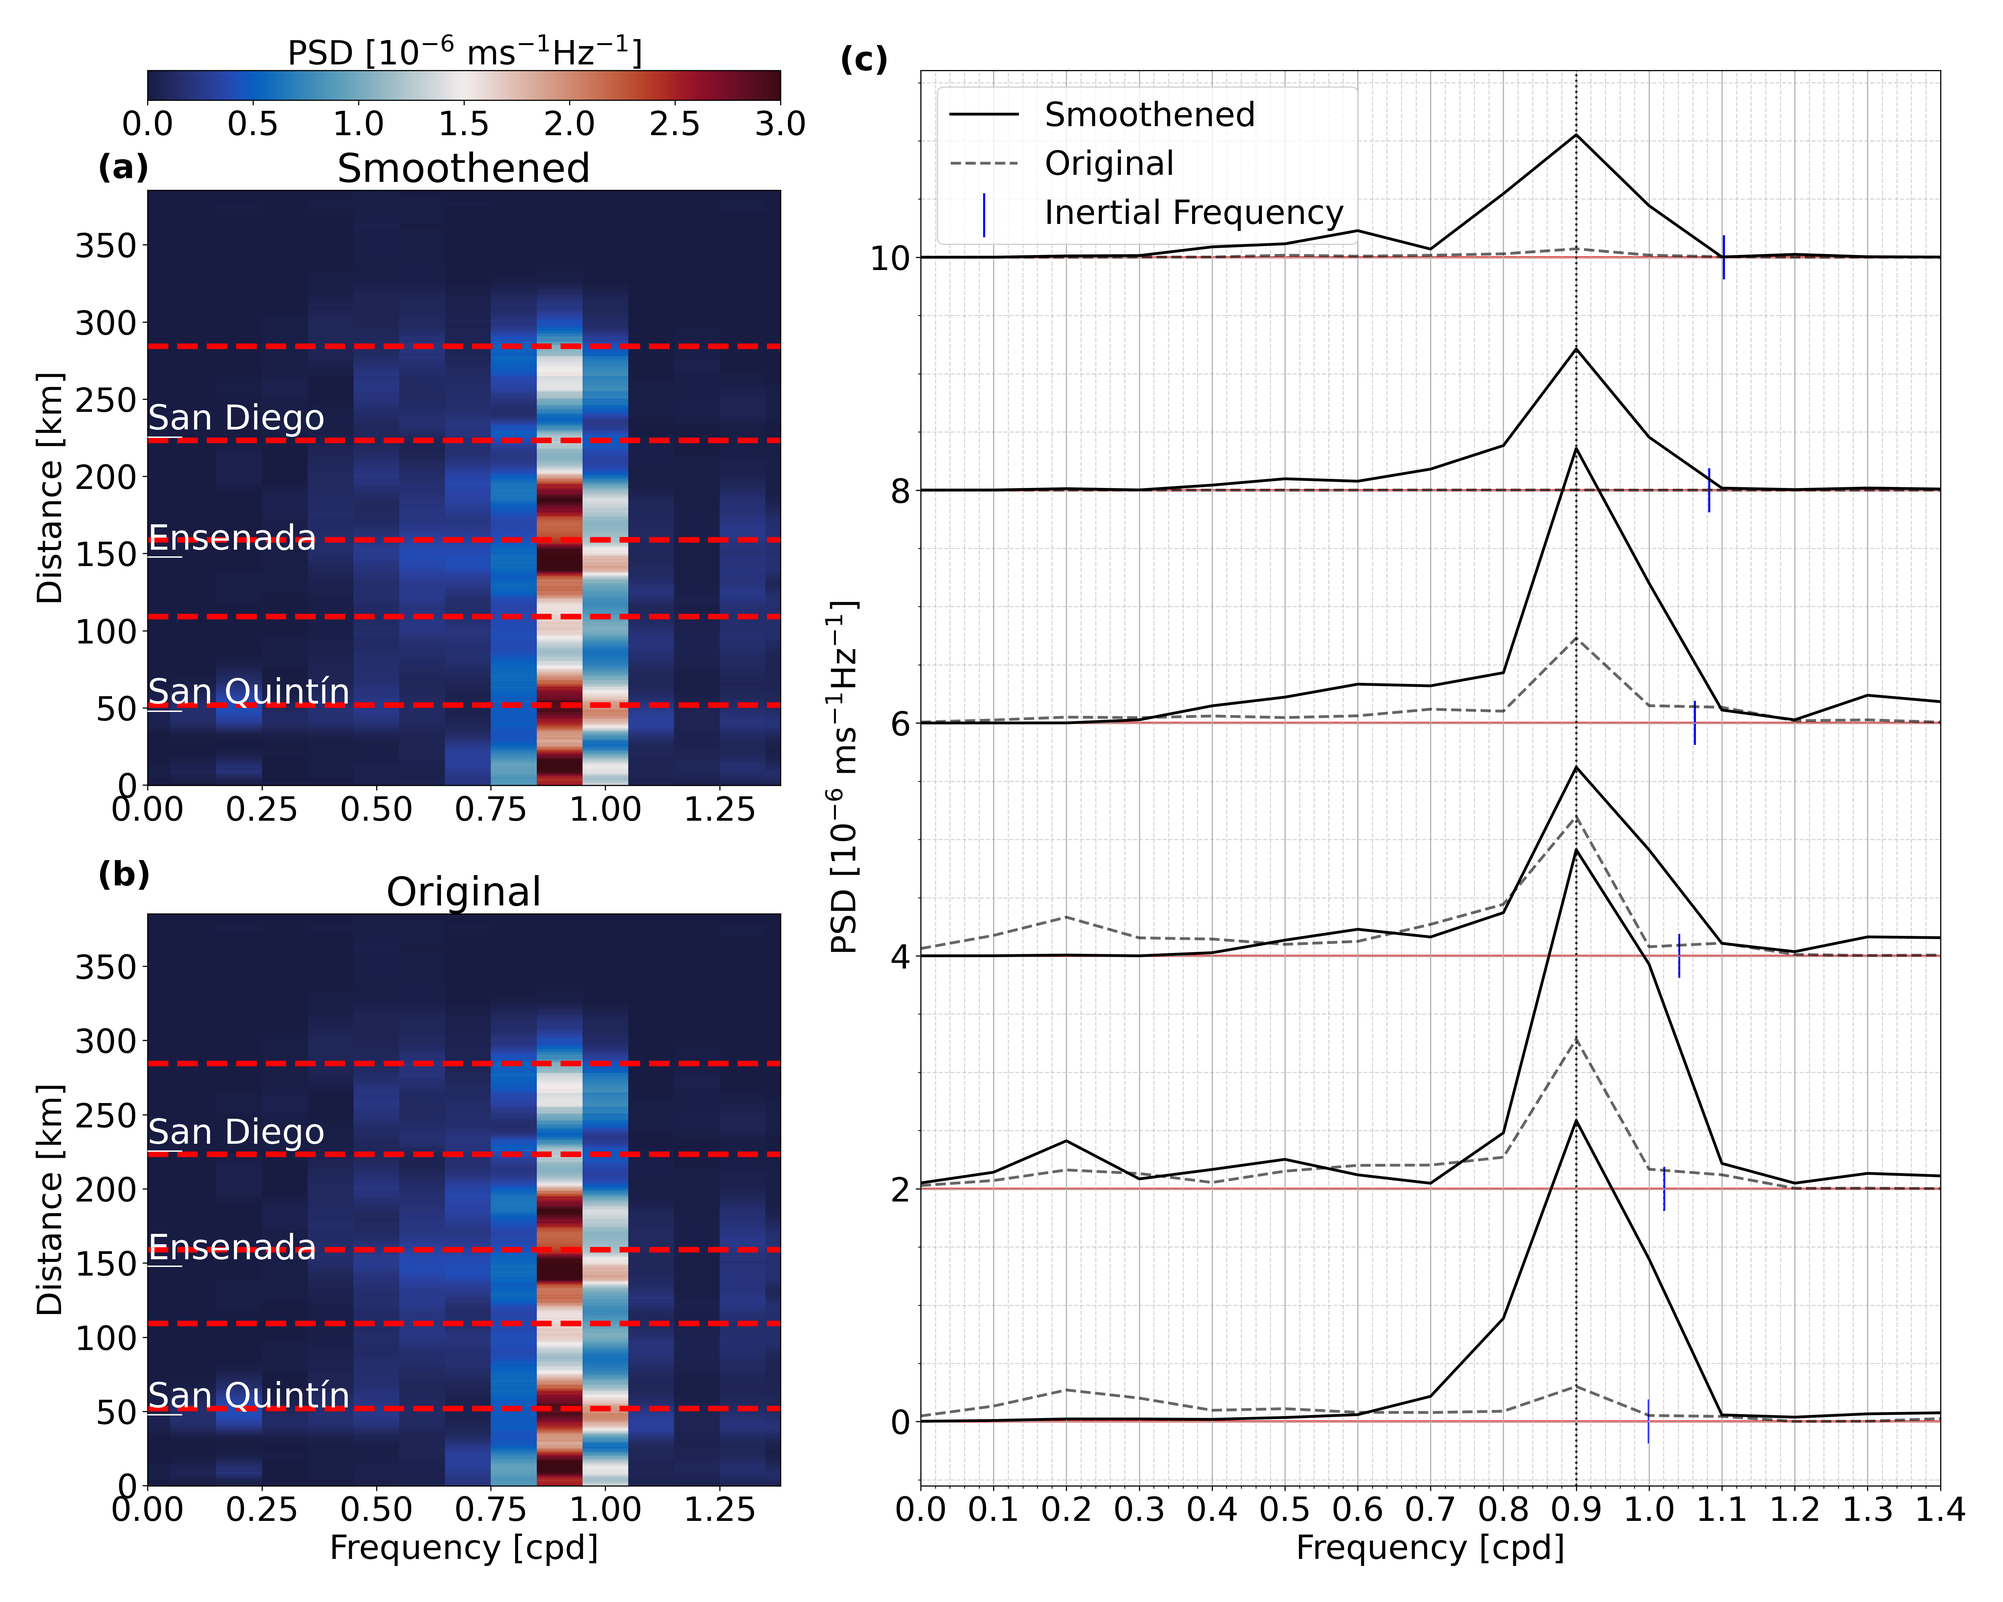
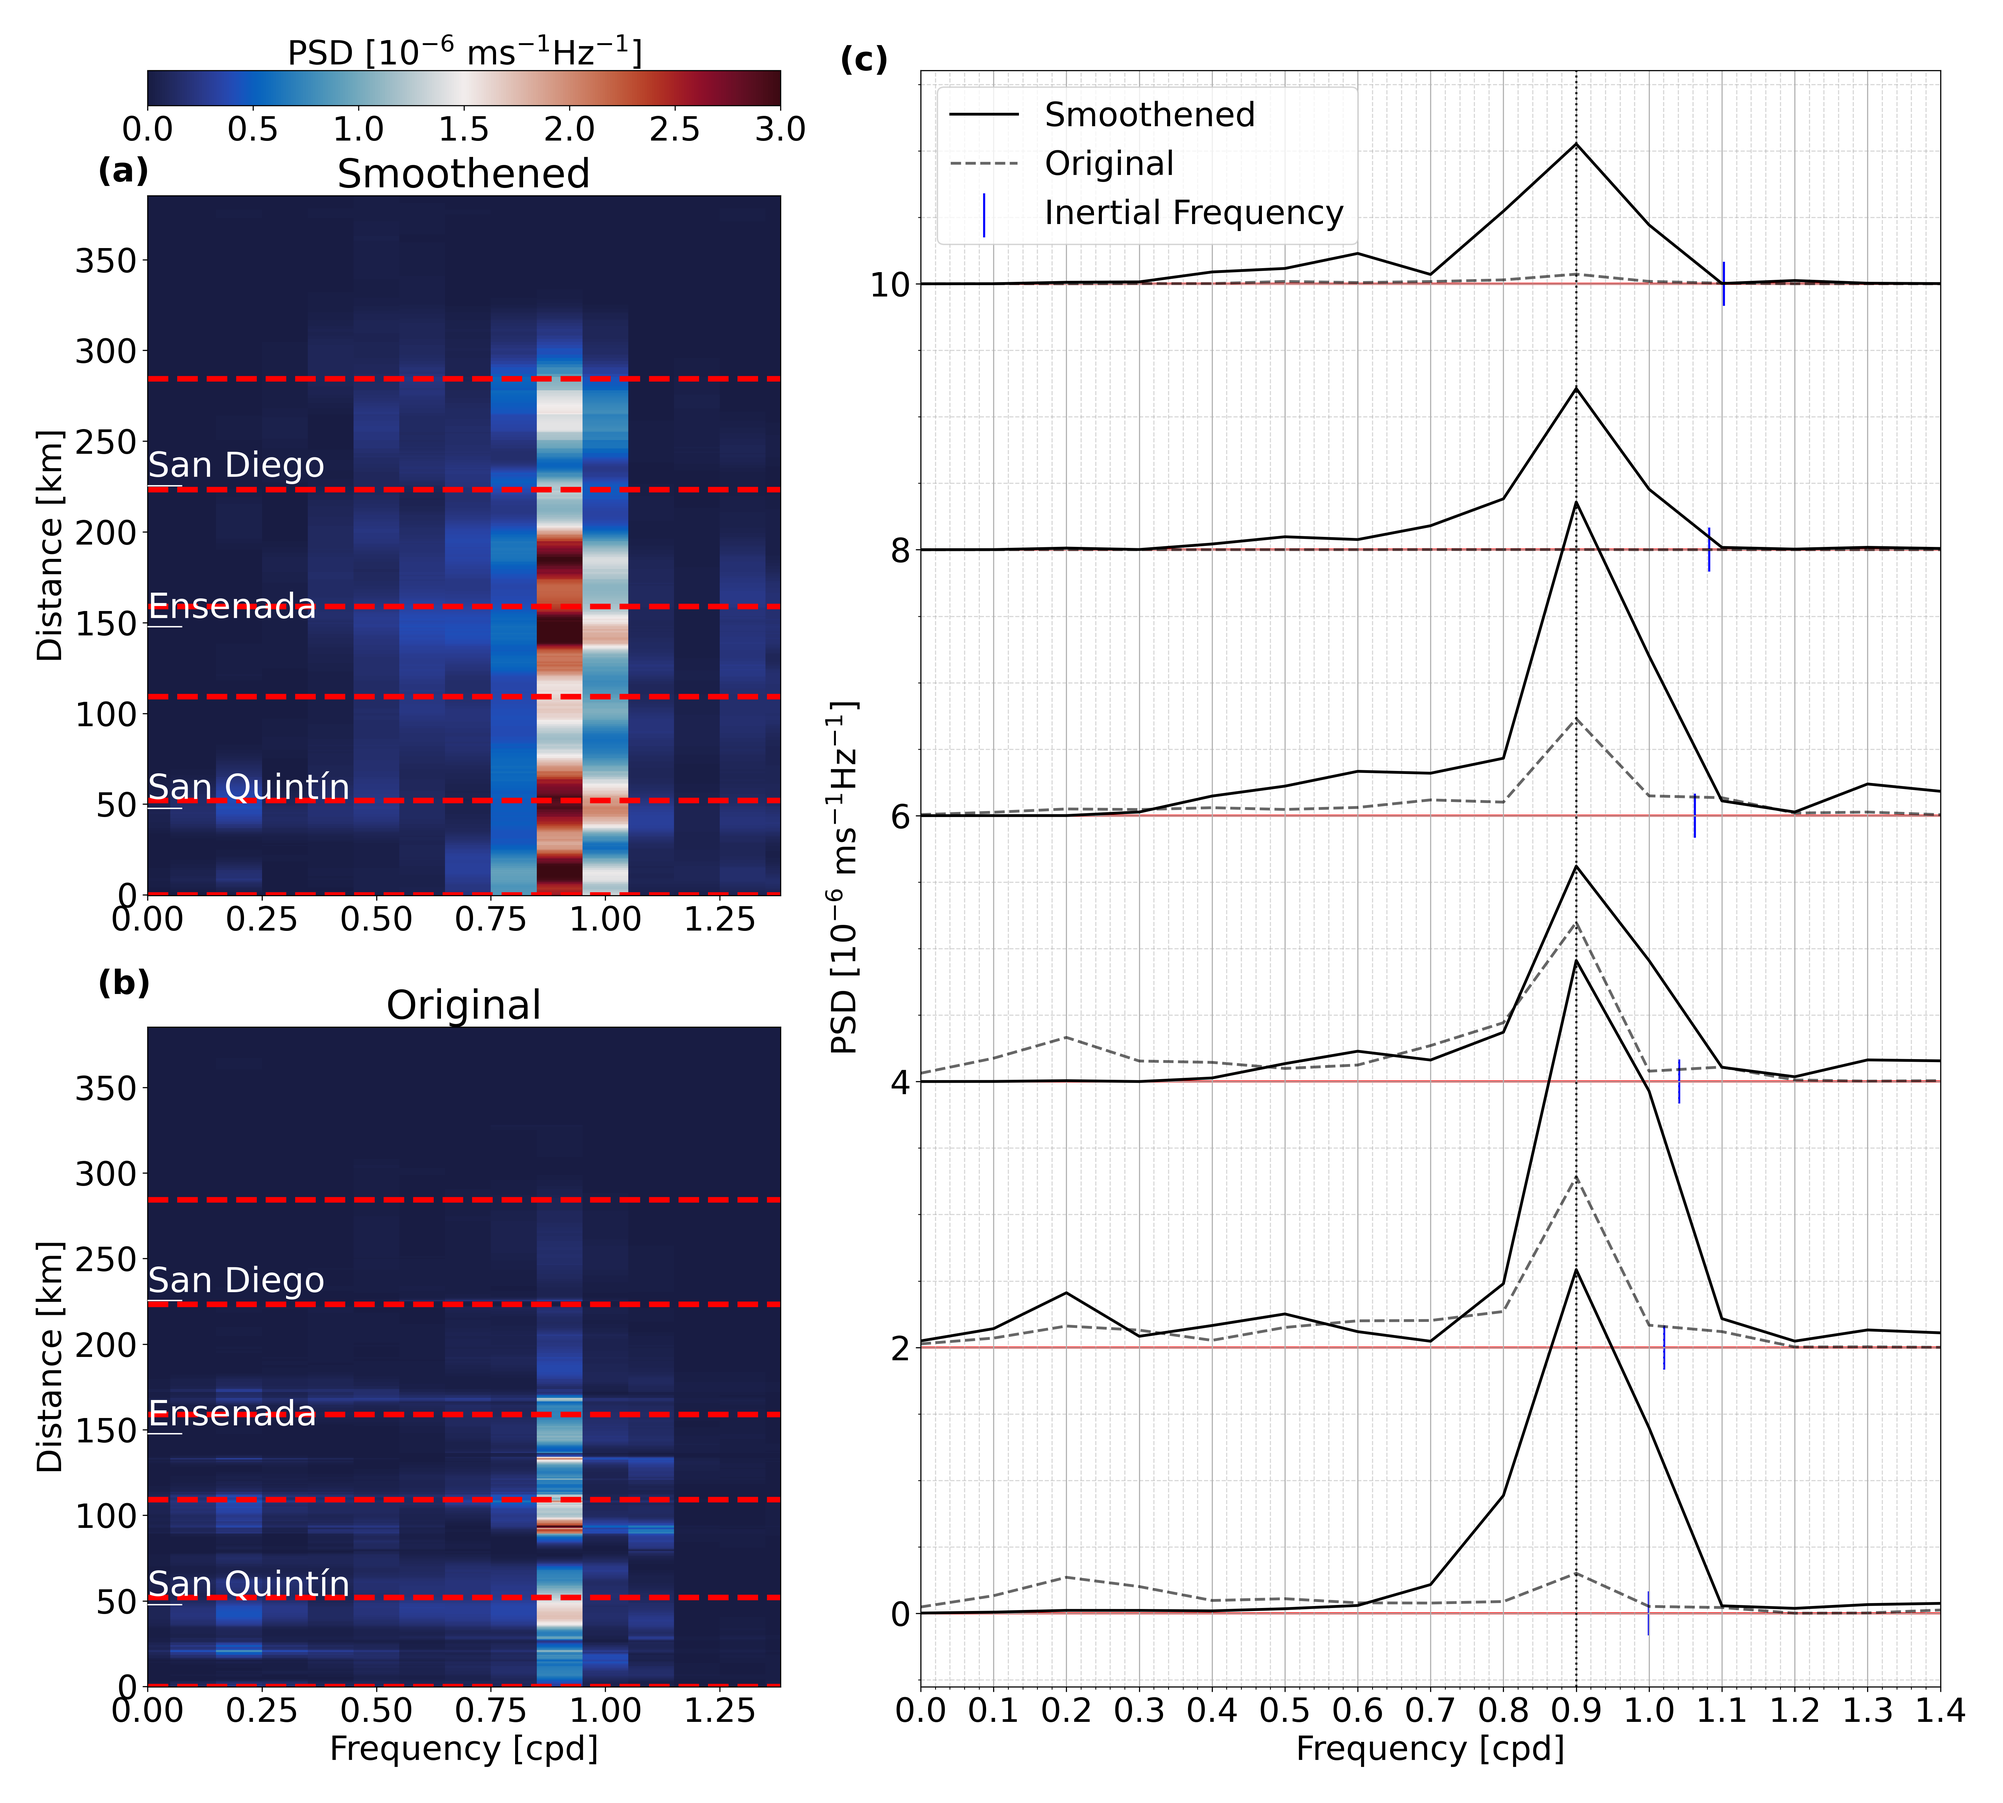
Power spectral density

diff --git a/Scripts/Power.py b/Scripts/Power.py
@@ -72,7 +72,7 @@ omega=(2*np.pi)/(23*60*60 + 56*60 + 4.1)
 
 #### Begin Plotting ####
 params = {'font.size': 24,
-          'figure.figsize': (20, 16),
+          'figure.figsize': (20, 18),
          'font.family':'sans'}
 pl.rcParams.update(params)
 plt.rcParams['figure.dpi'] = 300
@@ -119,7 +119,7 @@ ax1.set(xlabel=xlab, ylabel=ylab)
 ax1.text(-0.08, 1.05, '(b)', fontweight='bold', color='k', 
         transform=ax1.transAxes)
 
-cax1 = ax1.pcolormesh(freqfilto[1,:]*(24*3600),distVEL[:end],psdfilt[:end,:]*const,vmin=vmin,vmax=vmax, cmap=cmocean.cm.balance)
+cax1 = ax1.pcolormesh(freqfilto[1,:]*(24*3600),distVEL[:end],psdfilto[:end,:]*const,vmin=vmin,vmax=vmax, cmap=cmocean.cm.balance)
 
 ax1.set_xlim((0,0.000016*(24*3600)))
 
@@ -144,8 +144,8 @@ for nr in np.arange(0,len(loclatIn),2):
         axin.plot((freqfilt[1])*(24*3600),(psdfilt[loclatIn[nr]]*const)+nr,c='k',linewidth=2,zorder=20) 
         axin.scatter((2*omega*np.sin(np.deg2rad(lat_acVEL[loclatIn[nr]]))*24*3600)/(2*np.pi),nr,color='blue',marker="|",s=1000)
         axin.plot((freqfilto[1])*(24*3600),(psdfilto[loclatIn[nr]]*const)+nr,alpha=0.6,c='k',linewidth=2,linestyle='dashed',zorder=10) 
-        ax1.axhline(distVEL[loclatIn[nr]],color='red',linestyle='dashed',linewidth=4)
-        ax.axhline(distVEL[loclatIn[nr]],color='red',linestyle='dashed',linewidth=4)
+    ax1.axhline(distVEL[loclatIn[nr]],color='red',linestyle='dashed',linewidth=4)
+    ax.axhline(distVEL[loclatIn[nr]],color='red',linestyle='dashed',linewidth=4)
     
 
 axin.axvline((freqfilt[1][np.argmax(psdfilt[loclatIn[nr]])])*(24*3600),linestyle='dotted',color='k')
